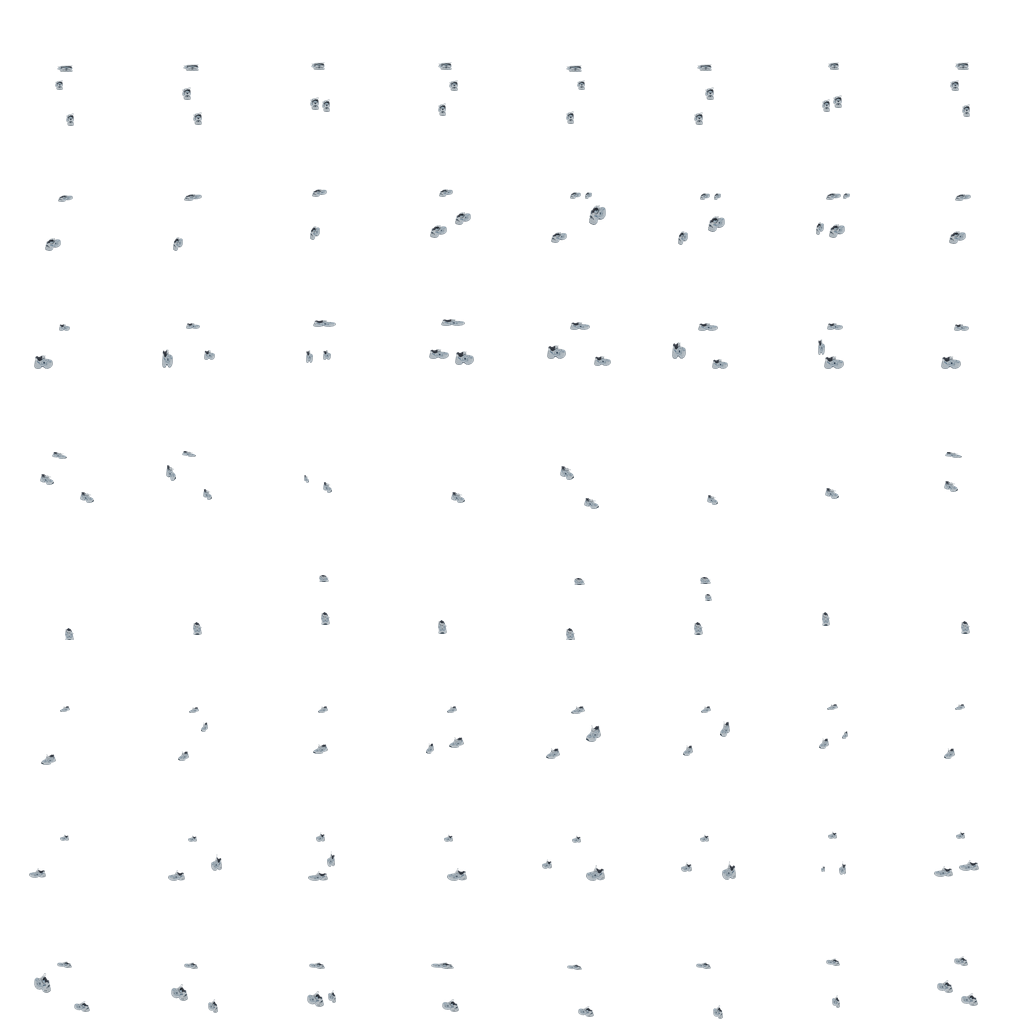
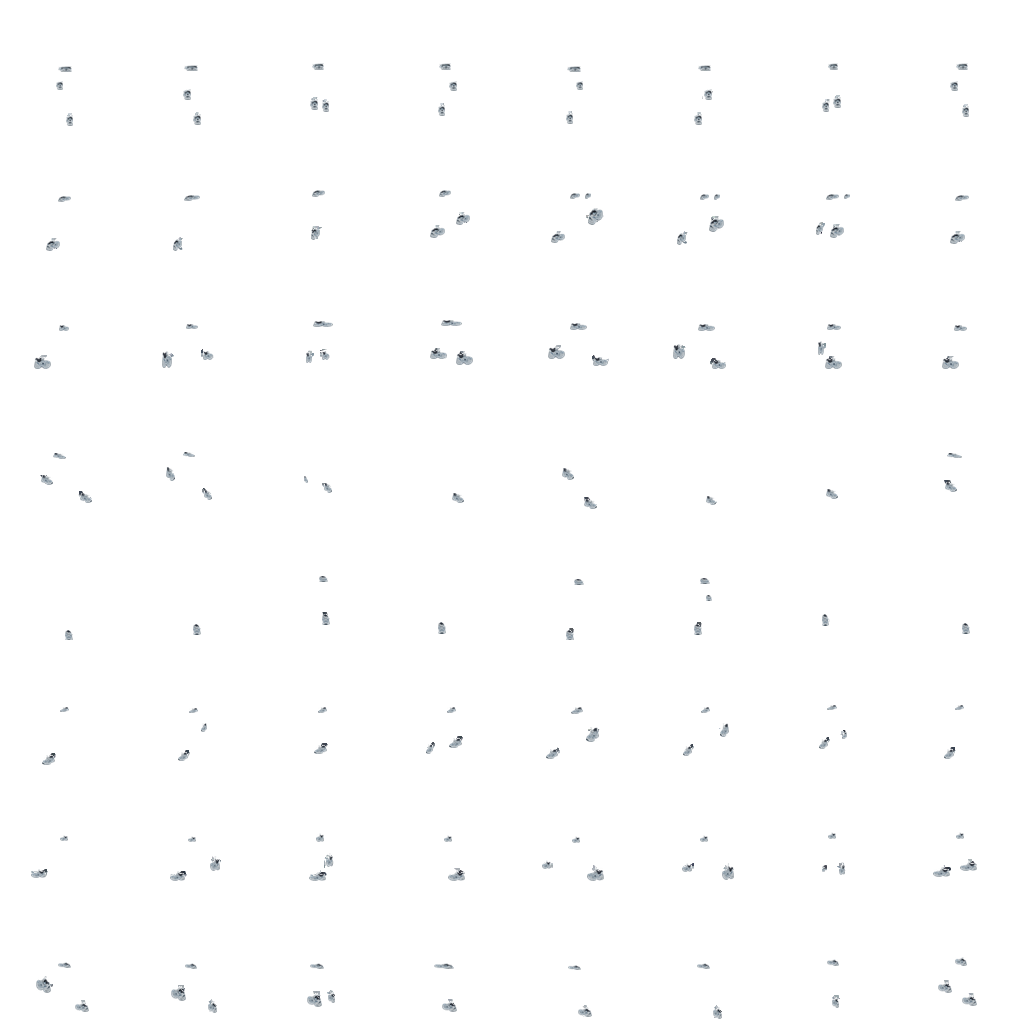
Ajusta a barra, a textura no giro e a proporção dos tênis do Roger

diff --git a/index.html b/index.html
@@ -4,10 +4,10 @@
   <meta charset="UTF-8">
   <meta name="viewport" content="width=device-width, initial-scale=1, viewport-fit=cover">
   <meta name="theme-color" content="#070b0a">
-  <title>Fronteira Morta 2.0 · CALCADOS-01 — Entrar</title>
+  <title>Fronteira Morta 2.0 · CALCADOS-02 — Entrar</title>
   <link rel="stylesheet" href="css/style.css?v=20261117-chat01">
   <link rel="stylesheet" href="css/auth.css?v=20261117-backgrounds01">
-  <!-- Build identificável: CALCADOS-01, para diferenciar a versão publicada da versão em cache. -->
+  <!-- Build identificável: CALCADOS-02, para diferenciar a versão publicada da versão em cache. -->
   <!-- Rebuild GitHub Pages default address; no custom domain configured. -->
   <!-- Re-publicação da versão 2.2.2 em 2026-11-16: sem alteração de mecânicas ou saves. -->
 </head>
@@ -38,7 +38,7 @@
       <button type="button" id="resend-confirmation" class="textual">Reenviar confirmação de e-mail</button>
       <button type="button" id="test-connection" class="textual">Testar conexão com o servidor</button>
       <p id="login-status" role="status" aria-live="polite"></p>
-      <small>A autenticação é protegida pelo Supabase. Seu progresso é armazenado na sua conta. <strong>Conexão v2.3.1 — VIP no HUD · CALCADOS-01</strong></small>
+      <small>A autenticação é protegida pelo Supabase. Seu progresso é armazenado na sua conta. <strong>Conexão v2.3.1 — VIP no HUD · CALCADOS-02</strong></small>
     </div>
   </form>
   <form id="forgot-form" class="fm-auth" hidden>
@@ -62,11 +62,11 @@
       <canvas id="gl" width="960" height="600" aria-hidden="true"></canvas>
       <canvas id="game" width="960" height="600" aria-label="Fronteira Morta"></canvas>
     </div>
-    <p class="help">WASD andar · Shift correr · mouse mirar e atacar · 1 2 3 / roda trocar arma · R recarregar · E usar · B mochila · F comer · G beber · H kit · I antibiótico · C atributos · L armas · M mapa · N cidade · O objetivos · U amigos · Esc pausa e missões · J música · K som · I mensagens · Enter chat <span id="vip-footer" class="vip-footer" aria-live="off">VIP: carregando...</span> <span id="trindade-footer" class="trindade-footer" hidden aria-live="off"></span> <span id="fm-build" style="display:inline-block;margin-left:9px;padding:1px 6px;border:1px solid #7a906a;border-radius:4px;color:#d5e8bf;background:#172316;font-size:11px" title="Identifica a versão do jogo carregada no navegador">VERSÃO CALCADOS-01</span></p>
+    <p class="help">WASD andar · Shift correr · mouse mirar e atacar · 1 2 3 / roda trocar arma · R recarregar · E usar · B mochila · F comer · G beber · H kit · I antibiótico · C atributos · L armas · M mapa · N cidade · O objetivos · U amigos · Esc pausa e missões · J música · K som · I mensagens · Enter chat <span id="vip-footer" class="vip-footer" aria-live="off">VIP: carregando...</span> <span id="trindade-footer" class="trindade-footer" hidden aria-live="off"></span> <span id="fm-build" style="display:inline-block;margin-left:9px;padding:1px 6px;border:1px solid #7a906a;border-radius:4px;color:#d5e8bf;background:#172316;font-size:11px" title="Identifica a versão do jogo carregada no navegador">VERSÃO CALCADOS-02</span></p>
   </main>
   <template id="game-scripts">
     <script src="js/config.js?v=20261118-semcapa01"></script>
-    <script src="js/wardrobe.js?v=20261120-calcados01"></script>
+    <script src="js/wardrobe.js?v=20261120-calcados02"></script>
     <script src="js/util.js"></script>
     <script src="js/sprites.js"></script>
     <script src="js/items.js?v=20261120-mats01"></script>
@@ -86,7 +86,7 @@
     <script src="js/inventory.js?v=20261118-semcapa01"></script>
     <script src="js/objectives.js"></script>
     <script src="js/survival.js?v=20261116-fix1"></script>
-    <script src="js/social.js?v=20261120-calcados01"></script>
+    <script src="js/social.js?v=20261120-calcados02"></script>
     <script src="js/chat.js?v=20261117-chat01"></script>
     <script src="js/shared_world.js?v=20261117-zumbis01"></script>
     <script src="js/junk.js?v=20261116-visual-implants-reset-final8"></script>
@@ -98,7 +98,7 @@
     <script src="js/render_extra.js?v=20261117-hazmat02"></script>
     <script src="js/render_hub.js?v=20261117-wardrobe01"></script>
     <script src="js/sprite_data.js?v=20261120-tronco01"></script>
-    <script src="js/perspective.js?v=20261120-calcados01"></script>
+    <script src="js/perspective.js?v=20261120-calcados02"></script>
     <script src="js/paperdoll.js?v=20261119-semarma01"></script>
     <script src="js/gl.js?v=20261116-sun150-clock10-v2"></script>
     <script src="js/base_guards.js?v=20261116-guards1"></script>

diff --git a/js/wardrobe.js b/js/wardrobe.js
@@ -21,7 +21,7 @@ for (const set of CLOTHING_SETS) {
 // layer = camada img/gear/<layer>_<pose>.png e img/portrait_<layer>.png desenhada por cima do corpo;
 // icon = foto da própria peça. Peças 3D não pintam o corpo (a camada já tem a cor do modelo).
 // versão das imagens do personagem (corpo, camadas, retrato, fotos): troca quando o personagem é renderizado de novo
-const CHAR_V = "?v=roger11";
+const CHAR_V = "?v=roger12";
 const W3D = (id, kind, layer, name, setName) => ({ id, kind, set: "3d", setName, name, layer, icon: `img/clothing/${layer}.png${CHAR_V}`, color: "#6a6658", accent: "#8a8672", texture: "canvas" });
 // capa com capuz (manto medieval) vestida no Roger, com física de pano na caminhada
 // máscara HOPE // The Last Face (CC-BY, Atahan.Danaci): andando, os olhos deixam rastros de brilho (perspective.js)
